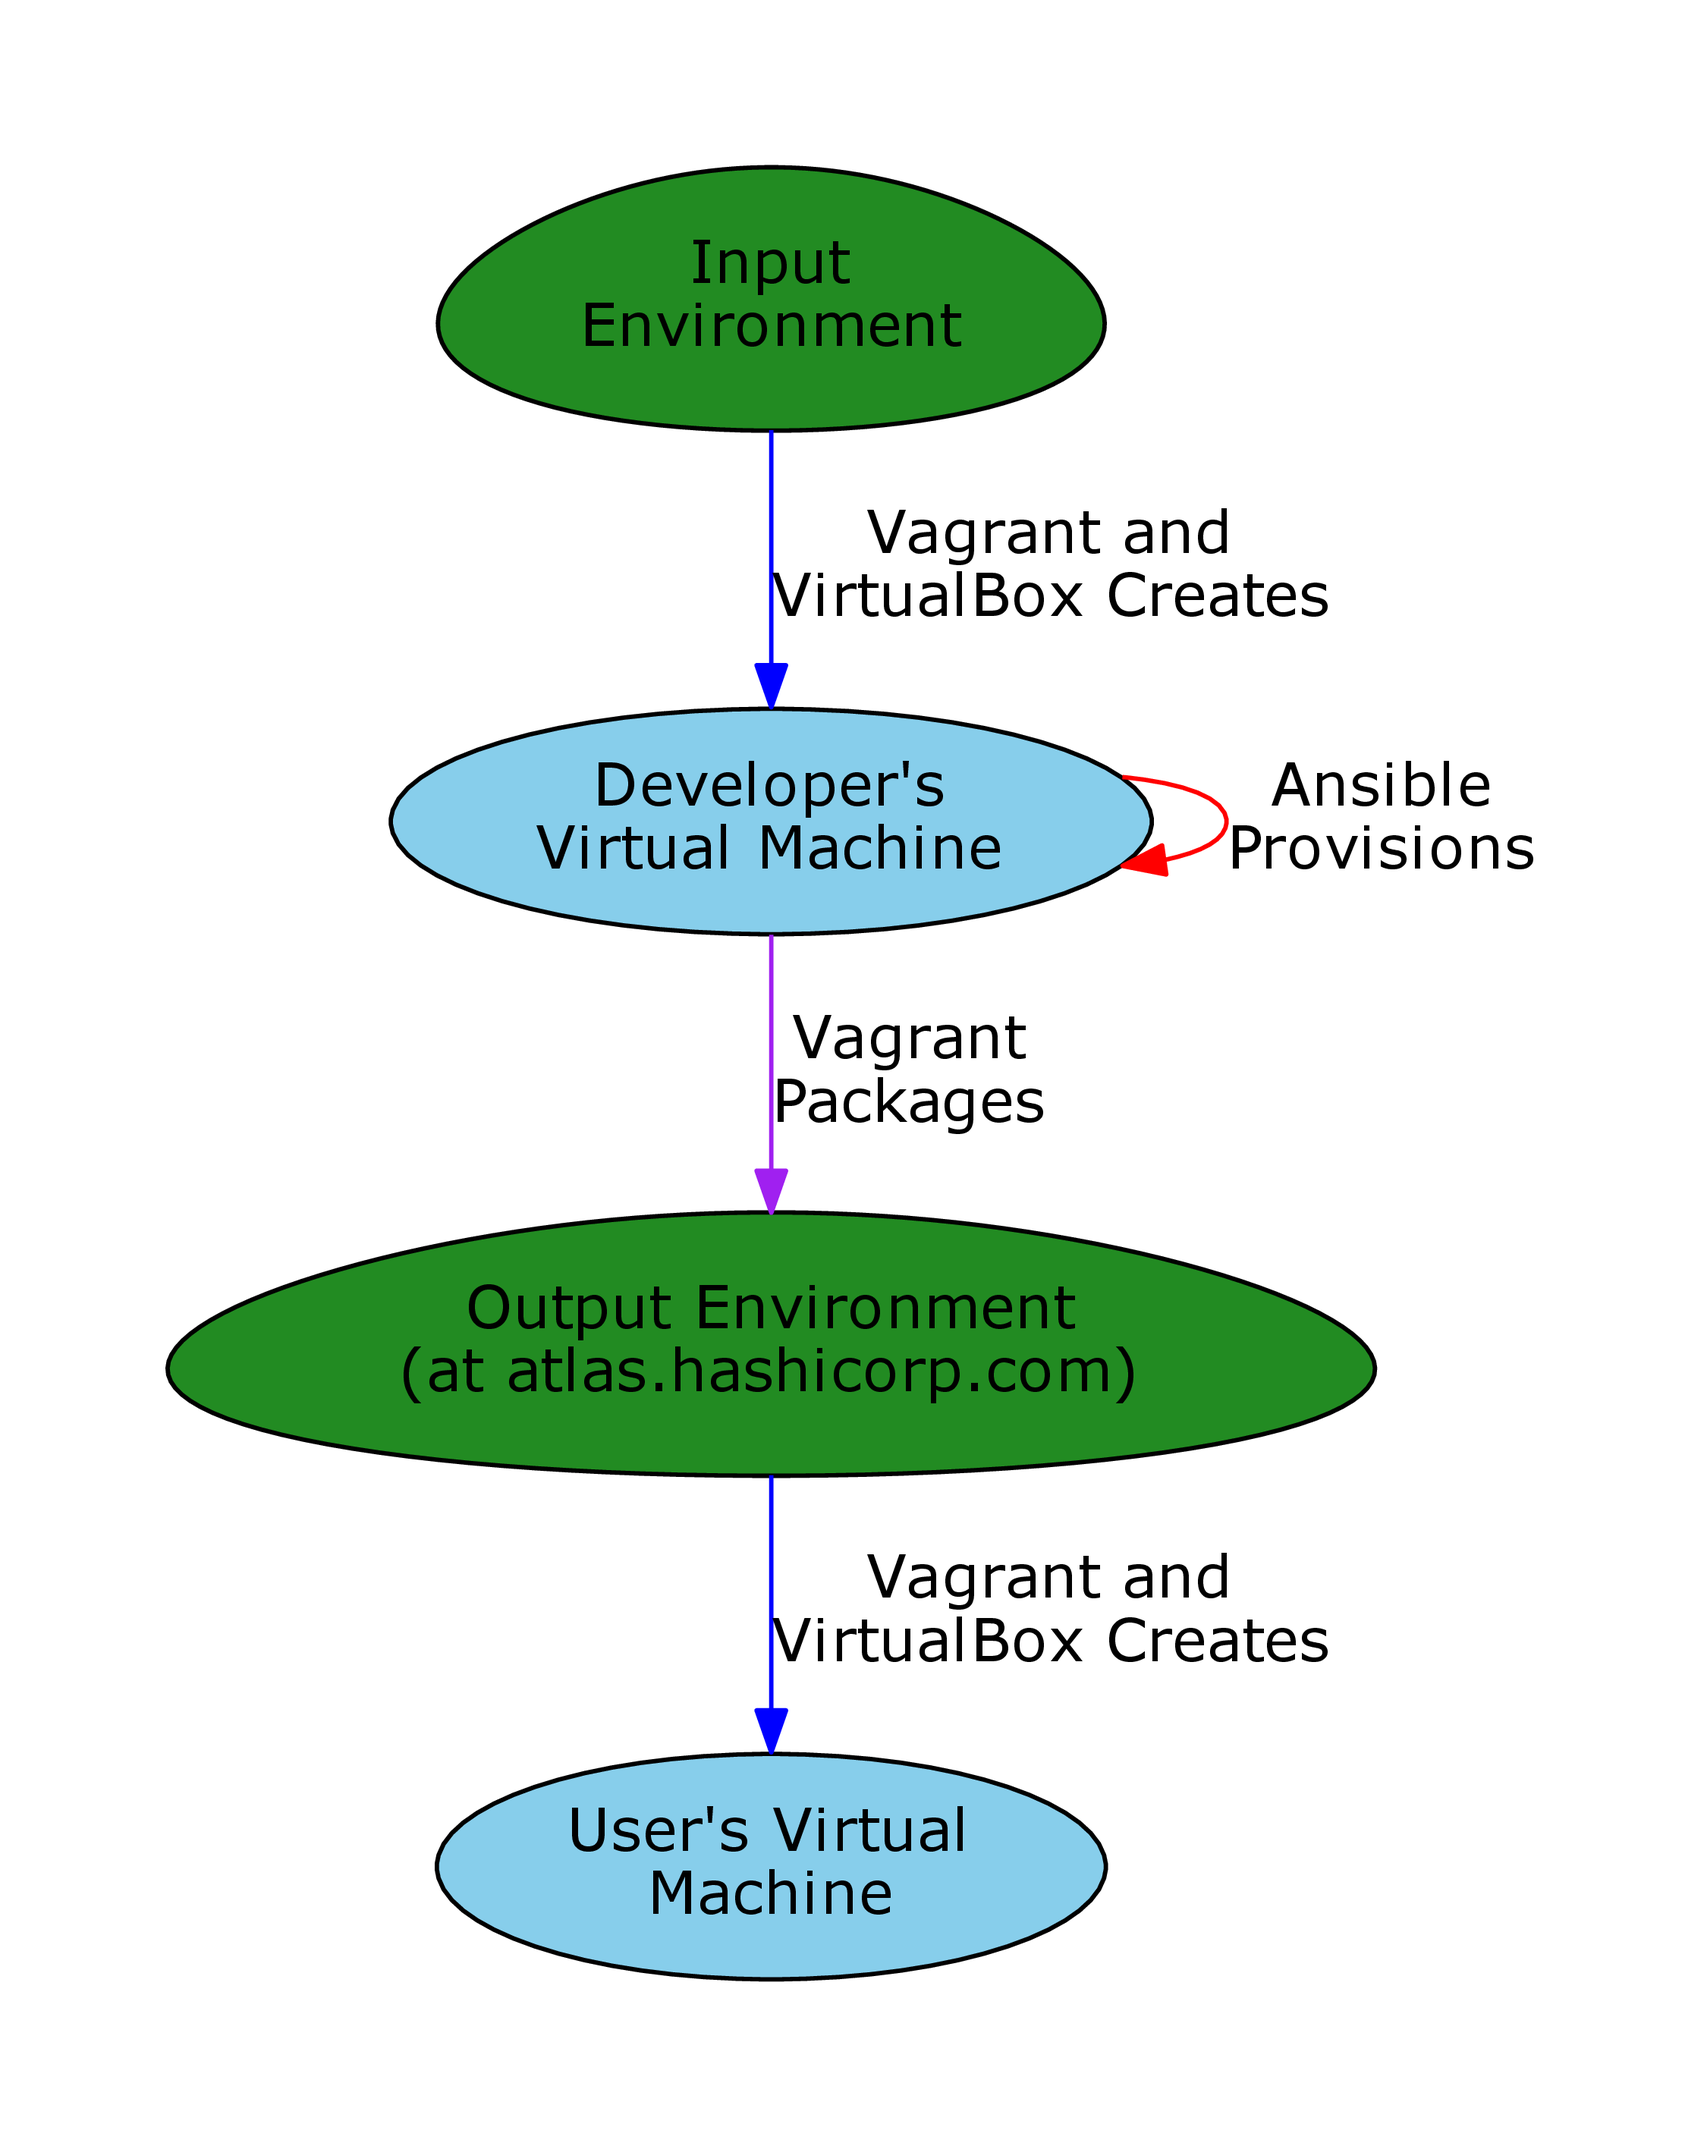
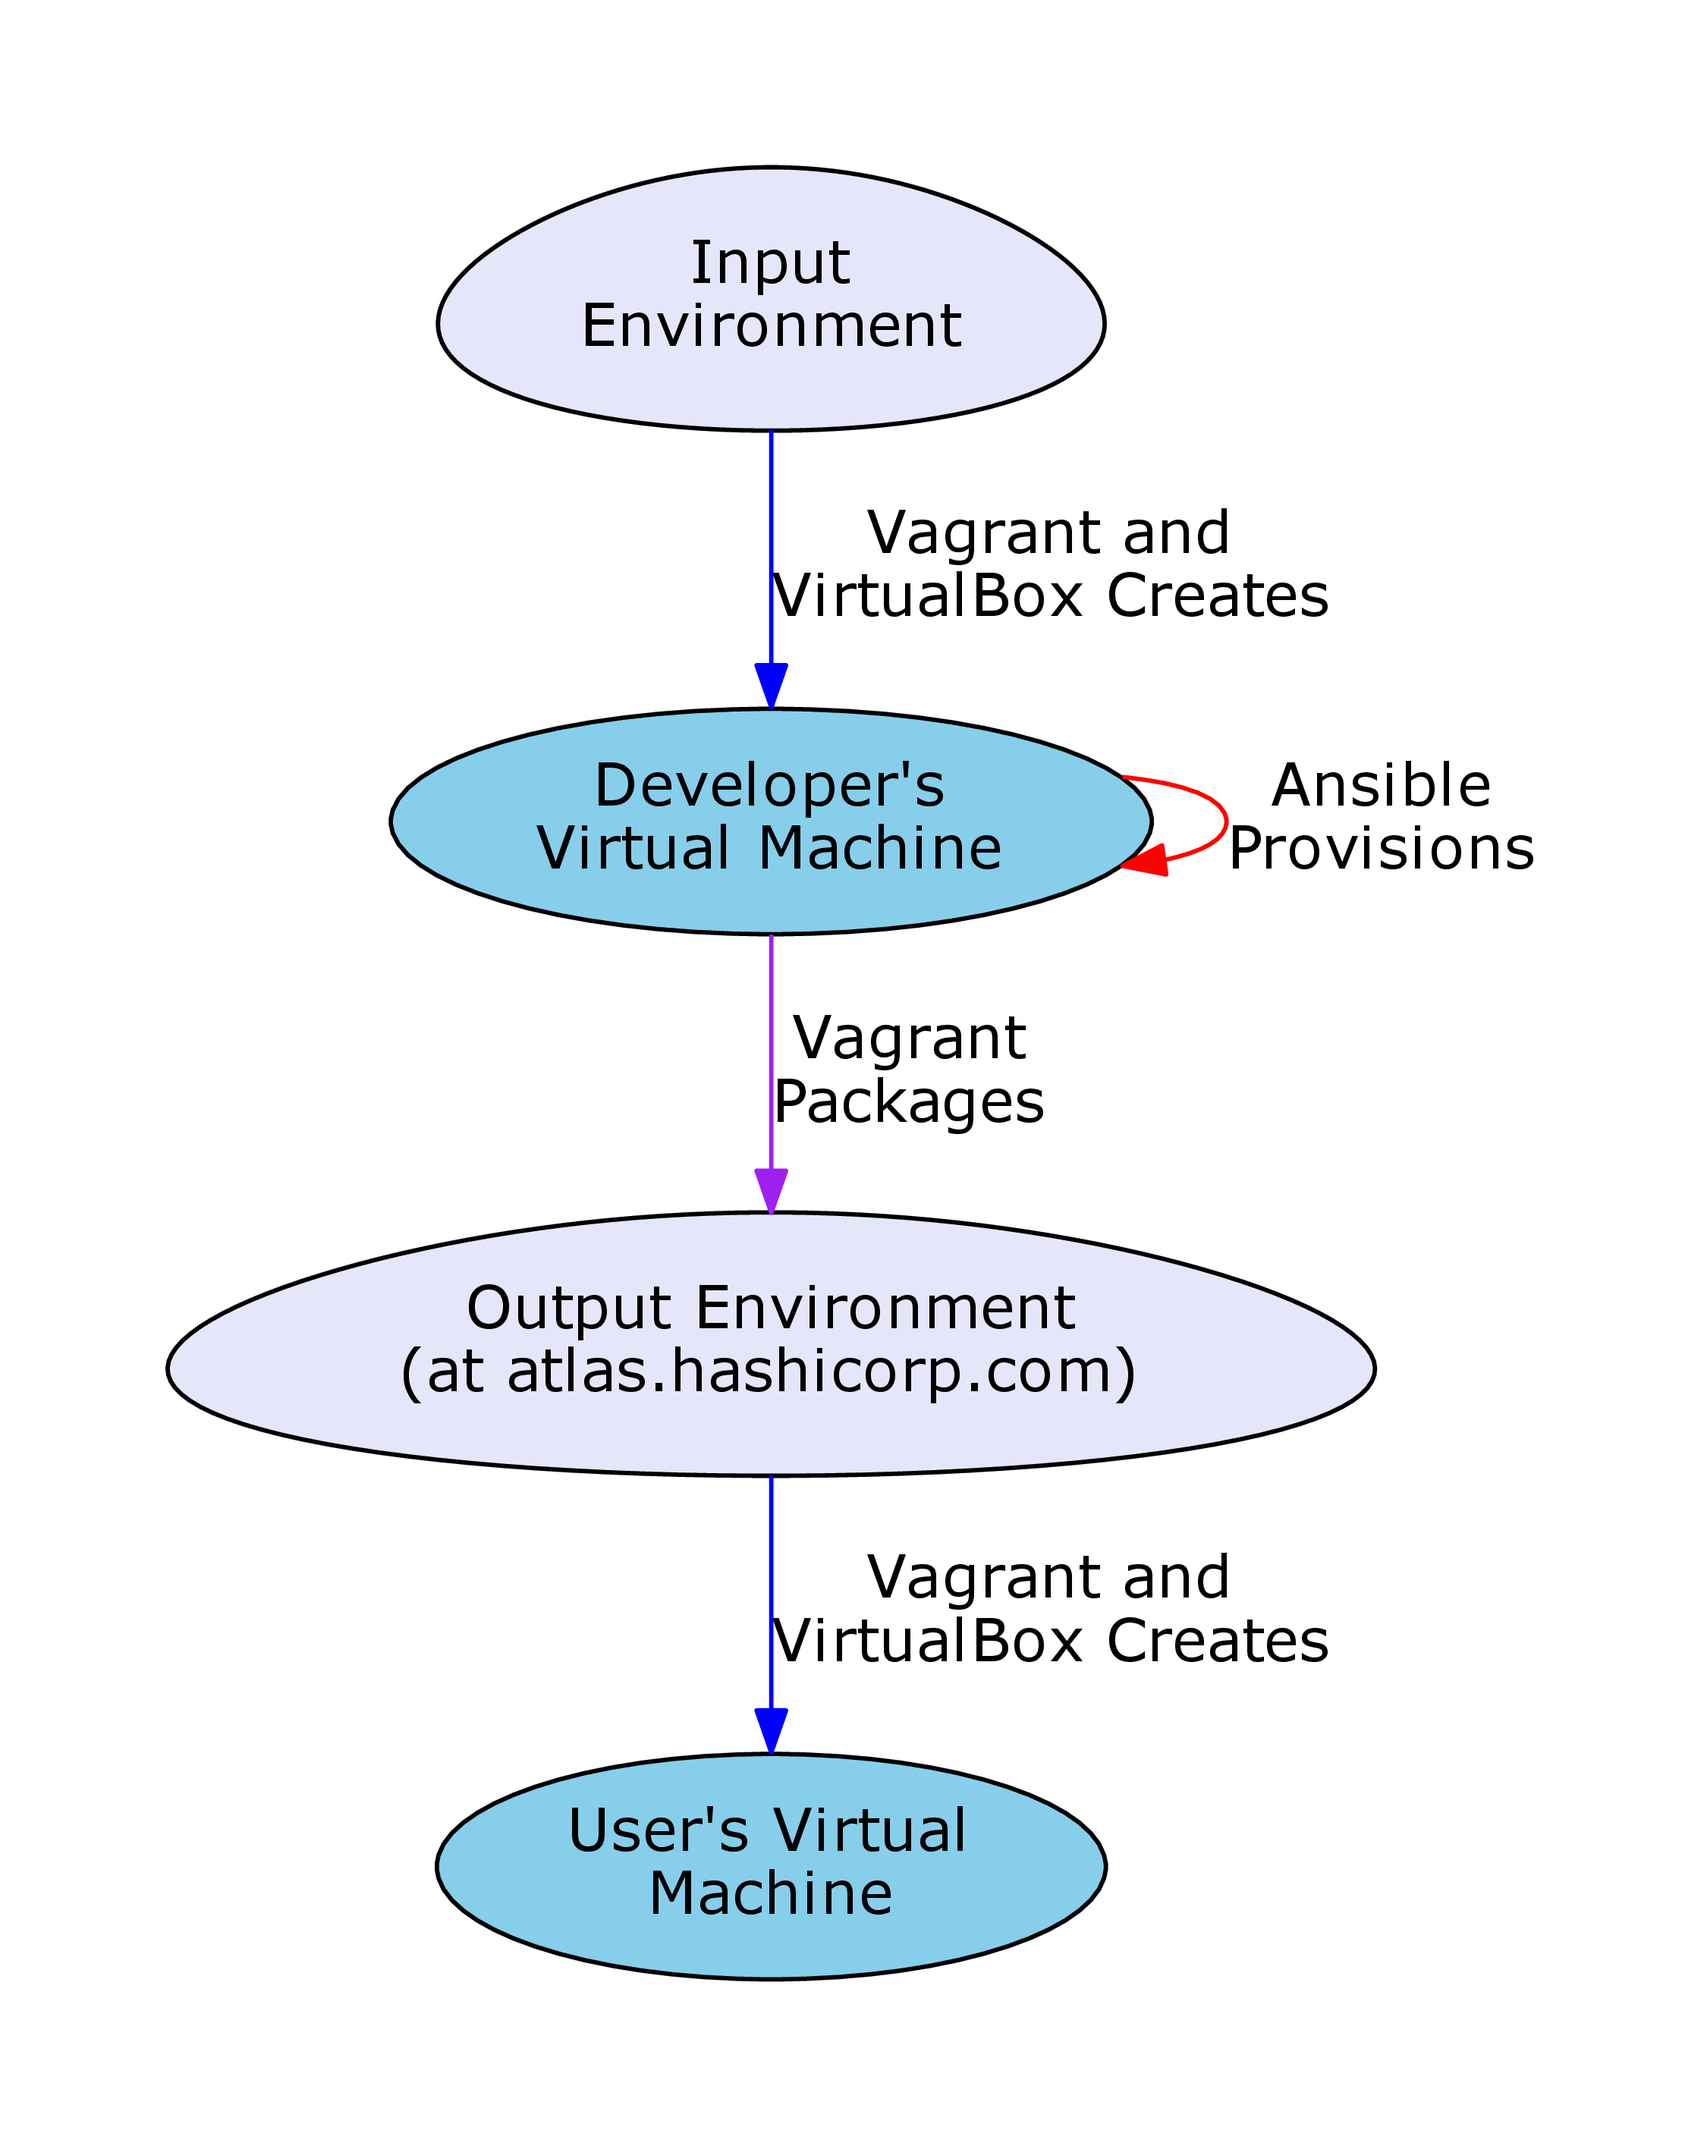
DOC-026: Change colours in the graph.

Changed region(s): [[0.0933, 0.5591, 0.8089, 0.6834], [0.2489, 0.0621, 0.6533, 0.2174]]

diff --git a/docs/graphs/graph.py b/docs/graphs/graph.py
@@ -9,7 +9,7 @@ import subprocess
 # Node properties
 font = "verdana"
 
-envNodeProps = {"shape": "egg", "fontname": font, "fillcolor": "forestgreen",
+envNodeProps = {"shape": "egg", "fontname": font, "fillcolor": "lavender",
                 "margin": "0.1, 0.1", "style": "filled"}
 machNodeProps = {"fontname": font, "fillcolor": "skyblue", "style": "filled"}
 graphProps = {"fontname": font}
